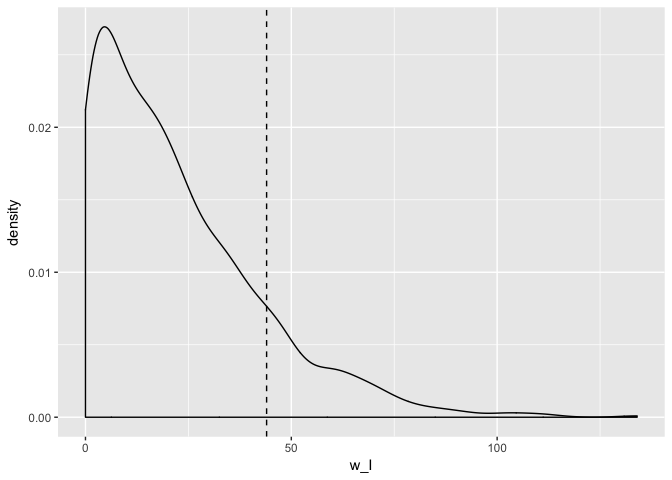
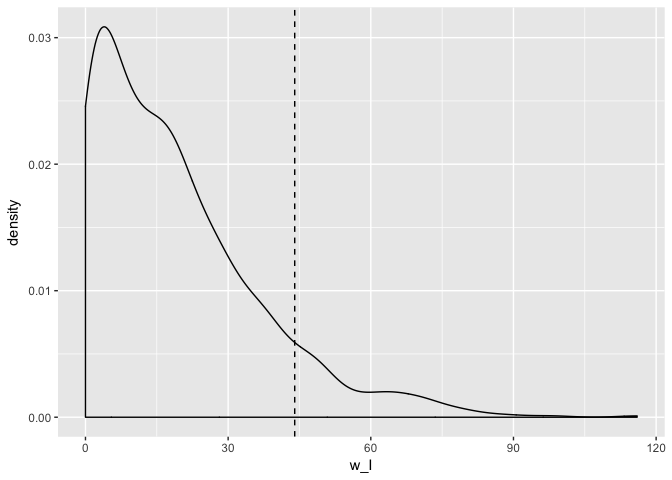
Trial research markdown

diff --git a/R/trial_research_sample.md b/R/trial_research_sample.md
@@ -1,6 +1,6 @@
 Tria research qualifying paper - sample data
 ================
-Richard Paquin Morel
+rpm
 1/30/2018
 
 ## Background and data
@@ -124,15 +124,15 @@ that will form the distribution against which I will compared the
 observed values The model selection is iterative. Here are the
 parameters I use:
 
-  - nodematch(“grade”). Based on homophily theory, I figure that ties
+  - *nodematch(“grade”)*. Based on homophily theory, I figure that ties
     are more likely to form within than between grades. I will allow for
     the possibility of differential homophily, as older grades may be
     less likely to show grade-level homophily  
-  - mutual. From balance theory, we know that friendship ties are
+  - *mutual*. From balance theory, we know that friendship ties are
     usually reciprocated.  
-  - gwesp. A measure triadic closure. Friends of friends are often
+  - *gwesp*. A measure triadic closure. Friends of friends are often
     friends. The decay is iteratively choosen to improve model fit  
-  - gwdsp. A measure of triadic openness. This captures brokerage.
+  - *gwdsp*. A measure of triadic openness. This captures brokerage.
 
 The estimation of ergm parameters can take a while. For the actually
 study, I crank some of the MCMC tuning parameters to ensure good mixing
@@ -158,16 +158,16 @@ summary(model)
     ## Formula:   faux.desert.high ~ edges + mutual + intransitive + gwesp(0.1, 
     ##     T) + gwdsp(0.1, T) + nodematch("grade")
     ## 
-    ## Iterations:  2 out of 20 
+    ## Iterations:  3 out of 20 
     ## 
     ## Monte Carlo MLE Results:
-    ##                 Estimate Std. Error MCMC %  p-value    
-    ## edges           -4.58411    0.16878      0  < 1e-04 ***
-    ## mutual           1.69007    0.20506      0  < 1e-04 ***
-    ## intransitive     0.04339    0.01389      0 0.001794 ** 
-    ## gwesp.fixed.0.1  1.21716    0.10308      0  < 1e-04 ***
-    ## gwdsp.fixed.0.1 -0.09157    0.02377      0 0.000118 ***
-    ## nodematch.grade  1.32449    0.11911      0  < 1e-04 ***
+    ##                 Estimate Std. Error MCMC % p-value    
+    ## edges           -4.57921    0.16894      0 < 1e-04 ***
+    ## mutual           1.69416    0.20098      0 < 1e-04 ***
+    ## intransitive     0.03814    0.01724      0 0.02697 *  
+    ## gwesp.fixed.0.1  1.21346    0.09940      0 < 1e-04 ***
+    ## gwdsp.fixed.0.1 -0.08582    0.02721      0 0.00161 ** 
+    ## nodematch.grade  1.31586    0.11630      0 < 1e-04 ***
     ## ---
     ## Signif. codes:  0 '***' 0.001 '**' 0.01 '*' 0.05 '.' 0.1 ' ' 1
     ## 
@@ -229,7 +229,7 @@ distribution.
 ecdf(model_tridist)(summary(faux.desert.high ~ triangle))
 ```
 
-    ## [1] 0.299
+    ## [1] 0.386
 
 Now I can proceed with the brokerage test. Here’s the basic process:
 
@@ -288,12 +288,12 @@ head(dist[[1]])
     ## # Groups:   grade [1]
     ##     w_I   w_O  b_IO  b_OI   b_O     t grade
     ##   <dbl> <dbl> <dbl> <dbl> <dbl> <dbl> <int>
-    ## 1 21.0   0     0    14.0   0    35.0      7
-    ## 2 71.0   0     0    11.0   0    82.0      7
-    ## 3  3.00  0     2.00  0     0     5.00     7
-    ## 4 24.0   1.00  5.00 25.0   2.00 57.0      7
-    ## 5  7.00  0     6.00  4.00  2.00 19.0      7
-    ## 6 27.0   0     0    10.0   0    37.0      7
+    ## 1  4.00     0  0     0     0     4.00     7
+    ## 2  9.00     0  0     0     0     9.00     7
+    ## 3 24.0      0 27.0   9.00  7.00 67.0      7
+    ## 4 19.0      0 18.0   0     0    37.0      7
+    ## 5  3.00     0  2.00  5.00  2.00 12.0      7
+    ## 6 79.0      0 10.0   0     0    89.0      7
 
 ``` r
 head(obs[[1]])
@@ -378,12 +378,12 @@ head(b_scores)
 ```
 
     ##   id Coordinator Consultant Representative Gatekeeper Liaison Total
-    ## 1  7       0.139          1          0.119      1.000   1.000 0.193
-    ## 2 12       0.236          1          0.128      1.000   1.000 0.282
-    ## 3 15       0.445          1          1.000      0.423   1.000 0.529
-    ## 4 19       0.685          1          0.551      0.423   0.355 0.650
-    ## 5 24       0.636          1          1.000      1.000   1.000 0.777
-    ## 6 34       0.295          1          0.089      0.468   1.000 0.256
+    ## 1  7       0.095          1          0.124      1.000   1.000 0.145
+    ## 2 12       0.179          1          0.136      1.000   1.000 0.229
+    ## 3 15       0.383          1          1.000      0.401   1.000 0.511
+    ## 4 19       0.655          1          0.567      0.401   0.374 0.621
+    ## 5 24       0.603          1          1.000      1.000   1.000 0.777
+    ## 6 34       0.236          1          0.093      0.471   1.000 0.201
 
 So those are all percentile ranks for each node’s brokerage score in
 each role. We have to choose an alpha as the cutoff for significance. I
@@ -468,7 +468,7 @@ brokers %>%
     ## # A tibble: 2 x 3
     ##   broker mean_range sd_range
     ##    <dbl>      <dbl>    <dbl>
-    ## 1   0         0.466    0.229
-    ## 2   1.00      0.526    0.271
+    ## 1   0         0.452    0.229
+    ## 2   1.00      0.587    0.226
 
 Indeed the brokers have greater mean range scores.
